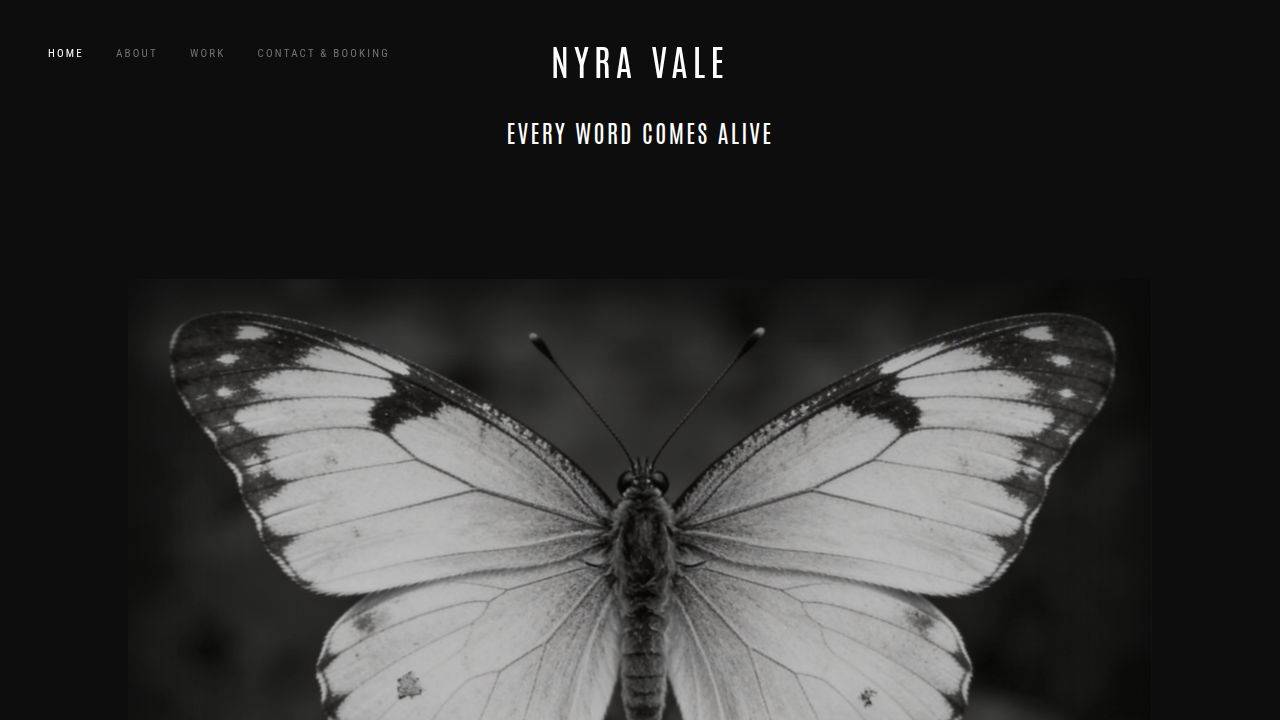
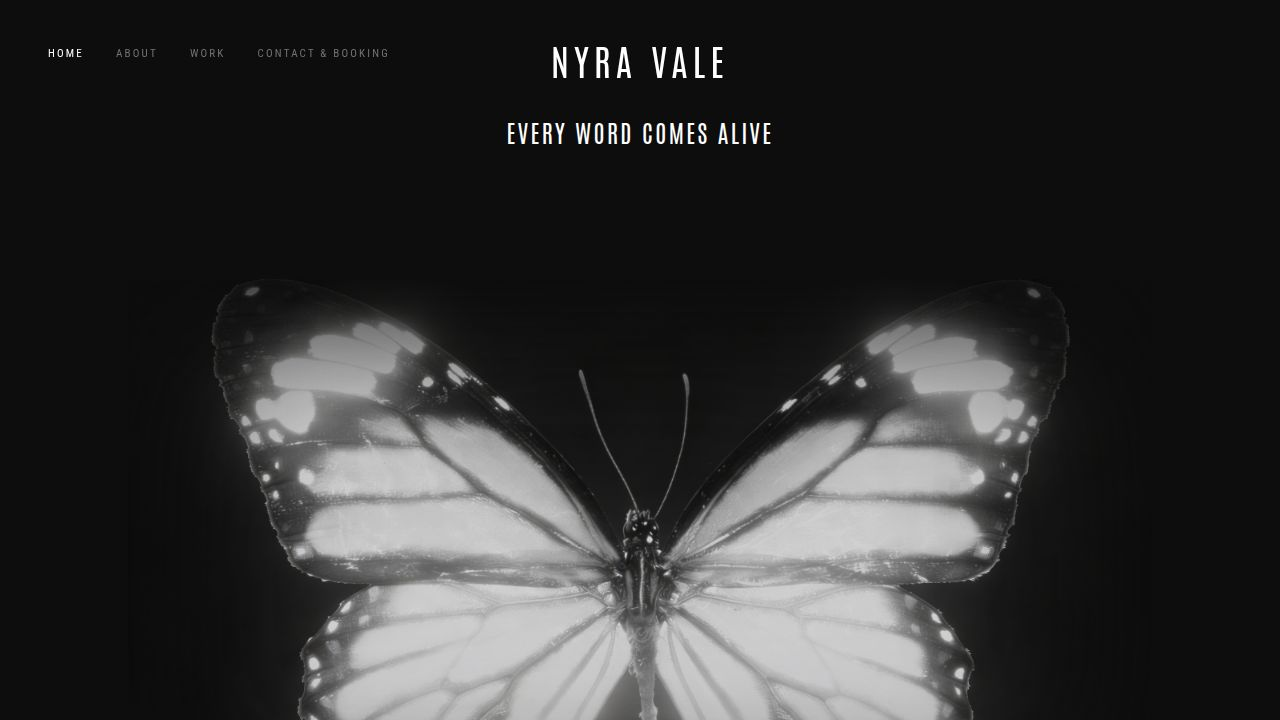
Update homepage butterfly image and adjust its visual effects
Replaces the existing butterfly image on the homepage with a new one and modifies the associated shadow effects to improve its integration with the background.

Replit-Commit-Author: Agent
Replit-Commit-Session-Id: abb7d197-0130-4365-8f3e-36aec6207882
Replit-Commit-Checkpoint-Type: full_checkpoint
Replit-Commit-Event-Id: a5ea53db-8eba-43ba-b59d-63da42579626
Replit-Commit-Screenshot-Url: https://storage.googleapis.com/screenshot-production-us-central1/acc114d5-8ff7-4aa1-90f1-90320e5e6cb7/abb7d197-0130-4365-8f3e-36aec6207882/h6e4u73
Replit-Helium-Checkpoint-Created: true

Changed region(s): [[0.125, 0.3972, 0.875, 1.0]]

diff --git a/client/src/pages/home.tsx b/client/src/pages/home.tsx
@@ -1,6 +1,6 @@
 import { Navbar } from "@/components/layout/Navbar";
 import { motion } from "framer-motion";
-import heroImage from "@/assets/home-butterfly.jpg";
+import heroImage from "@/assets/home-butterfly-new.jpg";
 
 export default function Home() {
   return (
